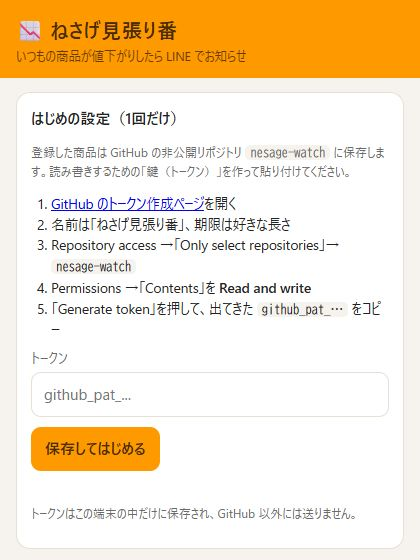
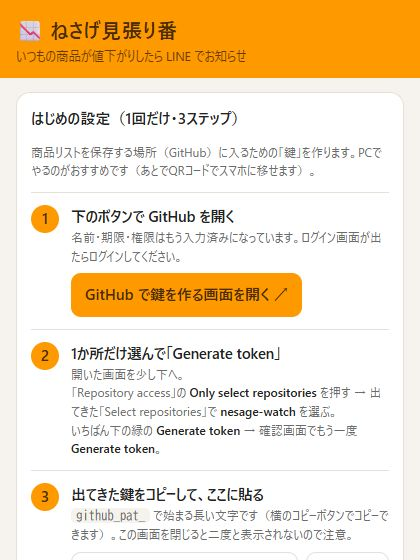
自動公開 / 更新: ねさげ見張り番

diff --git a/apps/amazon-nesage/index.html b/apps/amazon-nesage/index.html
@@ -63,6 +63,11 @@ details summary { cursor: pointer; color: var(--sub); font-size: 13px; }
 ol { padding-left: 20px; margin: 6px 0; font-size: 13.5px; }
 code { font-size: 12.5px; background: var(--bg); padding: 1px 5px; border-radius: 5px; }
 .hidden { display: none !important; }
+.step { display: grid; grid-template-columns: 30px 1fr; gap: 10px; padding: 12px 0; border-top: 1px solid var(--line); }
+.step > div > b { font-size: 14.5px; }
+.step .meta b { font-weight: 700; }
+.num { width: 28px; height: 28px; border-radius: 50%; background: var(--accent); color: var(--accent-ink); display: grid; place-items: center; font-weight: 800; }
+a.btn { display: inline-block; margin-top: 8px; padding: 10px 14px; border-radius: 10px; background: var(--accent); color: var(--accent-ink); font-weight: 700; text-decoration: none; }
 </style>
 </head>
 <body>
@@ -72,20 +77,33 @@ code { font-size: 12.5px; background: var(--bg); padding: 1px 5px; border-radius
 </header>
 <main>
   <section id="setup" class="box hidden">
-    <h2>はじめの設定（1回だけ）</h2>
-    <p class="meta">登録した商品は GitHub の非公開リポジトリ <code>nesage-watch</code> に保存します。読み書きするための「鍵（トークン）」を作って貼り付けてください。</p>
-    <ol>
-      <li><a href="https://github.com/settings/personal-access-tokens/new" target="_blank" rel="noopener">GitHub のトークン作成ページ</a>を開く</li>
-      <li>名前は「ねさげ見張り番」、期限は好きな長さ</li>
-      <li>Repository access →「Only select repositories」→ <code>nesage-watch</code></li>
-      <li>Permissions →「Contents」を <b>Read and write</b></li>
-      <li>「Generate token」を押して、出てきた <code>github_pat_…</code> をコピー</li>
-    </ol>
-    <label for="tok">トークン</label>
-    <input id="tok" type="password" autocomplete="off" placeholder="github_pat_...">
-    <div class="row" style="margin-top:10px"><button id="saveTok">保存してはじめる</button></div>
-    <div id="setupMsg" class="msg"></div>
-    <p class="meta">トークンはこの端末の中だけに保存され、GitHub 以外には送りません。</p>
+    <h2>はじめの設定（1回だけ・3ステップ）</h2>
+    <p class="meta">商品リストを保存する場所（GitHub）に入るための「鍵」を作ります。PCでやるのがおすすめです（あとでQRコードでスマホに移せます）。</p>
+
+    <div class="step"><span class="num">1</span><div>
+      <b>下のボタンで GitHub を開く</b>
+      <div class="meta">名前・期限・権限はもう入力済みになっています。ログイン画面が出たらログインしてください。</div>
+      <a class="btn" href="https://github.com/settings/personal-access-tokens/new?name=%E3%81%AD%E3%81%95%E3%81%92%E8%A6%8B%E5%BC%B5%E3%82%8A%E7%95%AA&amp;description=Amazon%E5%80%A4%E4%B8%8B%E3%81%8C%E3%82%8A%E9%80%9A%E7%9F%A5%E3%81%AE%E5%95%86%E5%93%81%E3%83%AA%E3%82%B9%E3%83%88%E7%94%A8&amp;target_name=kato200000354&amp;expires_in=none&amp;contents=write" target="_blank" rel="noopener">GitHub で鍵を作る画面を開く ↗</a>
+    </div></div>
+
+    <div class="step"><span class="num">2</span><div>
+      <b>1か所だけ選んで「Generate token」</b>
+      <div class="meta">開いた画面を少し下へ。<br>
+        「Repository access」の <b>Only select repositories</b> を押す → 出てきた「Select repositories」で <b>nesage-watch</b> を選ぶ。<br>
+        いちばん下の緑の <b>Generate token</b> → 確認画面でもう一度 <b>Generate token</b>。</div>
+    </div></div>
+
+    <div class="step"><span class="num">3</span><div>
+      <b>出てきた鍵をコピーして、ここに貼る</b>
+      <div class="meta"><code>github_pat_</code> で始まる長い文字です（横のコピーボタンでコピーできます）。この画面を閉じると二度と表示されないので注意。</div>
+      <div class="row" style="margin-top:8px">
+        <input id="tok" class="grow" type="password" autocomplete="off" placeholder="github_pat_...">
+        <button class="ghost" id="pasteTok">貼り付け</button>
+      </div>
+      <div class="row" style="margin-top:10px"><button id="saveTok">保存してはじめる</button></div>
+      <div id="setupMsg" class="msg"></div>
+    </div></div>
+    <p class="meta">鍵はこの端末の中だけに保存され、GitHub 以外には送りません。</p>
   </section>
 
   <div id="app" class="hidden">
@@ -106,14 +124,18 @@ code { font-size: 12.5px; background: var(--bg); padding: 1px 5px; border-radius
     <details class="box">
       <summary>しくみ・設定</summary>
       <p class="meta">家のPCが起動しているあいだ、3時間おきに Amazon の価格を調べます（PCを起動したときにも1回）。前回より安くなっていたら（目標価格を決めた商品はそれ以下になったら）LINE に通知します。登録した商品は次のチェックで価格がわかります。</p>
-      <div class="row"><button class="ghost" id="reload">最新の情報を読み込む</button><button class="ghost" id="logout">トークンを消す</button></div>
+      <div class="row"><button class="ghost" id="reload">最新の情報を読み込む</button><button class="ghost" id="showQr">スマホにも設定する（QR）</button><button class="ghost" id="logout">鍵を消す</button></div>
+      <div id="qrBox" class="hidden" style="margin-top:12px; text-align:center">
+        <div id="qr" style="display:inline-block; background:#fff; padding:10px; border-radius:10px"></div>
+        <p class="meta">スマホのカメラでこのQRを読むと、鍵の設定が済んだ状態で開きます。<br>他の人には見せないでください。</p>
+      </div>
     </details>
   </div>
 </main>
 
 <script>
 /*! © kato200000354. 無断転載・複製・再配布を禁止します。 */
-const REPO="kato200000354/nesage-watch",API=`https://api.github.com/repos/${REPO}/contents/`,TOKEN_KEY="nesage-token",$=t=>document.getElementById(t),store={get(){try{return localStorage.getItem(TOKEN_KEY)||""}catch{return""}},set(t){try{t?localStorage.setItem(TOKEN_KEY,t):localStorage.removeItem(TOKEN_KEY)}catch{}}};let token=store.get(),items=[],itemsSha=null,prices={};const b64dec=t=>(new TextDecoder).decode(Uint8Array.from(atob(t.replace(/\s/g,"")),t=>t.charCodeAt(0))),b64enc=t=>{let e="";for(const a of(new TextEncoder).encode(t))e+=String.fromCharCode(a);return btoa(e)},yen=t=>"¥"+Number(t).toLocaleString("ja-JP"),esc=t=>String(t??"").replace(/[&<>"']/g,t=>({"&":"&amp;","<":"&lt;",">":"&gt;",'"':"&quot;","'":"&#39;"}[t]));async function gh(t,e={}){const a=await fetch(API+t,{cache:"no-store",...e,headers:{Authorization:"Bearer "+token,Accept:"application/vnd.github+json",...e.headers||{}}});if(401===a.status)throw new Error("トークンが正しくないか、期限が切れています");if(403===a.status||404===a.status)throw new Error("リポジトリ nesage-watch を読めません（トークンの「Repository access」と「Contents」を確認）");if(409===a.status){const t=new Error("ほかの更新とぶつかりました");throw t.conflict=!0,t}if(!a.ok)throw new Error("GitHub エラー "+a.status);return a.json()}async function readJson(t){const e=await gh(t+"?ref=main");return{data:JSON.parse(b64dec(e.content)||"null"),sha:e.sha}}async function loadAll(){$("status").textContent="読み込み中…";const[t,e]=await Promise.all([readJson("items.json"),readJson("prices.json")]);items=t.data||[],itemsSha=t.sha,prices=e.data||{},render()}async function mutate(t,e){for(let a=0;a<2;a++){const n=await readJson("items.json"),s=t(n.data||[]);try{const t=await gh("items.json",{method:"PUT",body:JSON.stringify({message:e,sha:n.sha,branch:"main",content:b64enc(JSON.stringify(s,null,1)+"\n")})});return items=s,itemsSha=t.content.sha,void render()}catch(t){if(!t.conflict||a)throw t}}}function parseInput(t){const e=t.match(/https?:\/\/[^\s<>"'）)」]+/);if(!e)return null;const a=e[0].replace(/[。、]+$/,"");if(!/(^|\.)(amazon\.co\.jp|amzn\.asia|amzn\.to|a\.co)$/i.test(new URL(a).hostname))return{url:a,bad:!0};const n=a.match(/\/(?:dp|gp\/product|gp\/aw\/d|exec\/obidos\/ASIN)\/([A-Z0-9]{10})/i);return{url:n?"https://www.amazon.co.jp/dp/"+n[1].toUpperCase():a,asin:n?n[1].toUpperCase():null}}function spark(t){const e=t.filter(t=>t.p>0);if(e.length<2)return"";const a=e.map(t=>t.p),n=Math.min(...a),s=Math.max(...a),r=t=>4+292*t/(e.length-1),o=t=>s===n?18:4+28*(s-t)/(s-n);let c=`M${r(0)},${o(a[0])}`;for(let t=1;t<a.length;t++)c+=`H${r(t)}V${o(a[t])}`;const i=a[a.length-1];return`<svg class="spark" viewBox="0 0 300 36" preserveAspectRatio="none" aria-label="価格の推移">\n    <path d="${c}" fill="none" stroke="var(--accent)" stroke-width="2" vector-effect="non-scaling-stroke"/>\n    <circle cx="${r(a.length-1)}" cy="${o(i)}" r="3" fill="${i<=n?"var(--down)":"var(--accent)"}"/></svg>`}function fmtTime(t){return t?t.slice(5).replace("-","/").replace("T"," "):""}function render(){const t=Object.values(prices).map(t=>t.checked).filter(Boolean).sort(),e=t[t.length-1],a=$("status");if(items.length)if(e){const t=(Date.now()-new Date(e+":00+09:00"))/36e5;a.textContent=`最後のチェック: ${fmtTime(e)}`+(t>12?"　⚠ しばらくチェックできていません（家のPCが止まっているかも）":""),a.className="status"+(t>12?" warn":"")}else a.textContent="まだ一度もチェックしていません（次のチェックで価格がわかります）";else a.textContent="";items.length?$("list").innerHTML=items.map(t=>{const e=prices[t.id]||{},a=e.history||[],n=a.filter(t=>t.p>0),s=n.length>1?n[n.length-2].p:null,r=e.asin?"https://www.amazon.co.jp/dp/"+e.asin:t.url;let o;if(e.price>0){const t=s?e.price-s:0;o=`<div class="price">${yen(e.price)}${t?`<span class="chg ${t<0?"down":"up"}">${t<0?"▼":"▲"}${yen(Math.abs(t))}</span>`:""}</div>`}else o=0===e.price?'<div class="price" style="font-size:16px">在庫切れ</div>':'<div class="meta">次のチェックで価格を調べます</div>';const c=[e.low&&e.price>0&&e.price<=e.low&&n.length>1?'<span class="tag low">最安値</span>':"",t.target?`<span class="tag">🎯 ${yen(t.target)}以下で通知</span>`:""].join("");return`<div class="box item">\n      ${e.image?`<img src="${esc(e.image)}" alt="" loading="lazy" referrerpolicy="no-referrer">`:'<div class="noimg">📦</div>'}\n      <div style="min-width:0">\n        <a class="title" href="${esc(r)}" target="_blank" rel="noopener">${esc(e.title||t.url)}</a>\n        ${o}\n        ${spark(a)}\n        <div class="meta">${c}${e.low?`最安 <b>${yen(e.low)}</b>　`:""}${e.checked?"チェック "+fmtTime(e.checked):""}</div>\n        ${e.error?`<div class="meta err">${esc(e.error)}</div>`:""}\n      </div>\n      <div class="tools">\n        <button class="ghost" data-act="target" data-id="${esc(t.id)}">目標価格</button>\n        <button class="ghost" data-act="del" data-id="${esc(t.id)}">削除</button>\n      </div>\n    </div>`}).join(""):$("list").innerHTML='<div class="box empty">まだ商品がありません。<br>いつも買う商品の URL を上に貼って登録してください。</div>'}async function guard(t,e,a){t.disabled=!0,e.className="msg",e.textContent="保存中…";try{await a(),e.textContent=""}catch(t){e.className="msg err",e.textContent=t.message}finally{t.disabled=!1}}$("add").onclick=()=>{const t=$("addMsg"),e=parseInput($("url").value);if(!e)return t.className="msg err",void(t.textContent="URL が見つかりません");if(e.bad)return t.className="msg err",void(t.textContent="Amazon（amazon.co.jp）の URL を貼ってください");const a=parseInt($("target").value,10)||null;guard($("add"),t,async()=>{let n=!1;if(await mutate(t=>e.asin&&t.some(t=>t.asin===e.asin)?(n=!0,t):[...t,{id:Date.now().toString(36),url:e.url,asin:e.asin,target:a,added:(new Date).toISOString().slice(0,10)}],"商品を追加"),n)throw new Error("その商品はもう登録してあります");$("url").value="",$("target").value="",t.textContent="",setTimeout(()=>{t.className="msg",t.textContent="登録しました。次のチェックで価格がわかります"},0)})},$("list").onclick=t=>{const e=t.target.closest("button[data-act]");if(!e)return;const a=e.dataset.id,n=items.find(t=>t.id===a),s=(prices[a]&&prices[a].title||n.url).slice(0,40),r=$("addMsg");if("del"===e.dataset.act){if(!confirm(`「${s}」を削除しますか？`))return;guard(e,r,()=>mutate(t=>t.filter(t=>t.id!==a),"商品を削除"))}else{const t=prompt("目標価格（円）。この値段以下になったら通知します。\n空にすると「少しでも下がったら通知」に戻ります。",n.target||"");if(null===t)return;const s=parseInt(t.replace(/[^\d]/g,""),10)||null;guard(e,r,()=>mutate(t=>t.map(t=>t.id===a?{...t,target:s}:t),"目標価格を変更"))}},$("saveTok").onclick=async()=>{token=$("tok").value.trim();const t=$("setupMsg");t.className="msg",t.textContent="確認中…";try{await loadAll(),store.set(token),$("setup").classList.add("hidden"),$("app").classList.remove("hidden"),t.textContent=""}catch(e){t.className="msg err",t.textContent=e.message}},$("reload").onclick=()=>loadAll().catch(t=>$("status").textContent=t.message),$("logout").onclick=()=>{confirm("この端末からトークンを消しますか？")&&(store.set(""),location.reload())},token?($("app").classList.remove("hidden"),loadAll().catch(t=>{$("status").className="status warn",$("status").textContent=t.message})):$("setup").classList.remove("hidden"),document.addEventListener("visibilitychange",()=>{!document.hidden&&token&&loadAll().catch(()=>{})});
+const REPO="kato200000354/nesage-watch",API=`https://api.github.com/repos/${REPO}/contents/`,TOKEN_KEY="nesage-token",$=t=>document.getElementById(t),store={get(){try{return localStorage.getItem(TOKEN_KEY)||""}catch{return""}},set(t){try{t?localStorage.setItem(TOKEN_KEY,t):localStorage.removeItem(TOKEN_KEY)}catch{}}};let token=store.get(),items=[],itemsSha=null,prices={};const b64dec=t=>(new TextDecoder).decode(Uint8Array.from(atob(t.replace(/\s/g,"")),t=>t.charCodeAt(0))),b64enc=t=>{let e="";for(const a of(new TextEncoder).encode(t))e+=String.fromCharCode(a);return btoa(e)},yen=t=>"¥"+Number(t).toLocaleString("ja-JP"),esc=t=>String(t??"").replace(/[&<>"']/g,t=>({"&":"&amp;","<":"&lt;",">":"&gt;",'"':"&quot;","'":"&#39;"}[t]));async function gh(t,e={}){const a=await fetch(API+t,{cache:"no-store",...e,headers:{Authorization:"Bearer "+token,Accept:"application/vnd.github+json",...e.headers||{}}});if(401===a.status)throw new Error("トークンが正しくないか、期限が切れています");if(403===a.status||404===a.status)throw new Error("リポジトリ nesage-watch を読めません（トークンの「Repository access」と「Contents」を確認）");if(409===a.status){const t=new Error("ほかの更新とぶつかりました");throw t.conflict=!0,t}if(!a.ok)throw new Error("GitHub エラー "+a.status);return a.json()}async function readJson(t){const e=await gh(t+"?ref=main");return{data:JSON.parse(b64dec(e.content)||"null"),sha:e.sha}}async function loadAll(){$("status").textContent="読み込み中…";const[t,e]=await Promise.all([readJson("items.json"),readJson("prices.json")]);items=t.data||[],itemsSha=t.sha,prices=e.data||{},render()}async function mutate(t,e){for(let a=0;a<2;a++){const n=await readJson("items.json"),s=t(n.data||[]);try{const t=await gh("items.json",{method:"PUT",body:JSON.stringify({message:e,sha:n.sha,branch:"main",content:b64enc(JSON.stringify(s,null,1)+"\n")})});return items=s,itemsSha=t.content.sha,void render()}catch(t){if(!t.conflict||a)throw t}}}function parseInput(t){const e=t.match(/https?:\/\/[^\s<>"'）)」]+/);if(!e)return null;const a=e[0].replace(/[。、]+$/,"");if(!/(^|\.)(amazon\.co\.jp|amzn\.asia|amzn\.to|a\.co)$/i.test(new URL(a).hostname))return{url:a,bad:!0};const n=a.match(/\/(?:dp|gp\/product|gp\/aw\/d|exec\/obidos\/ASIN)\/([A-Z0-9]{10})/i);return{url:n?"https://www.amazon.co.jp/dp/"+n[1].toUpperCase():a,asin:n?n[1].toUpperCase():null}}function spark(t){const e=t.filter(t=>t.p>0);if(e.length<2)return"";const a=e.map(t=>t.p),n=Math.min(...a),s=Math.max(...a),o=t=>4+292*t/(e.length-1),r=t=>s===n?18:4+28*(s-t)/(s-n);let c=`M${o(0)},${r(a[0])}`;for(let t=1;t<a.length;t++)c+=`H${o(t)}V${r(a[t])}`;const i=a[a.length-1];return`<svg class="spark" viewBox="0 0 300 36" preserveAspectRatio="none" aria-label="価格の推移">\n    <path d="${c}" fill="none" stroke="var(--accent)" stroke-width="2" vector-effect="non-scaling-stroke"/>\n    <circle cx="${o(a.length-1)}" cy="${r(i)}" r="3" fill="${i<=n?"var(--down)":"var(--accent)"}"/></svg>`}function fmtTime(t){return t?t.slice(5).replace("-","/").replace("T"," "):""}function render(){const t=Object.values(prices).map(t=>t.checked).filter(Boolean).sort(),e=t[t.length-1],a=$("status");if(items.length)if(e){const t=(Date.now()-new Date(e+":00+09:00"))/36e5;a.textContent=`最後のチェック: ${fmtTime(e)}`+(t>12?"　⚠ しばらくチェックできていません（家のPCが止まっているかも）":""),a.className="status"+(t>12?" warn":"")}else a.textContent="まだ一度もチェックしていません（次のチェックで価格がわかります）";else a.textContent="";items.length?$("list").innerHTML=items.map(t=>{const e=prices[t.id]||{},a=e.history||[],n=a.filter(t=>t.p>0),s=n.length>1?n[n.length-2].p:null,o=e.asin?"https://www.amazon.co.jp/dp/"+e.asin:t.url;let r;if(e.price>0){const t=s?e.price-s:0;r=`<div class="price">${yen(e.price)}${t?`<span class="chg ${t<0?"down":"up"}">${t<0?"▼":"▲"}${yen(Math.abs(t))}</span>`:""}</div>`}else r=0===e.price?'<div class="price" style="font-size:16px">在庫切れ</div>':'<div class="meta">次のチェックで価格を調べます</div>';const c=[e.low&&e.price>0&&e.price<=e.low&&n.length>1?'<span class="tag low">最安値</span>':"",t.target?`<span class="tag">🎯 ${yen(t.target)}以下で通知</span>`:""].join("");return`<div class="box item">\n      ${e.image?`<img src="${esc(e.image)}" alt="" loading="lazy" referrerpolicy="no-referrer">`:'<div class="noimg">📦</div>'}\n      <div style="min-width:0">\n        <a class="title" href="${esc(o)}" target="_blank" rel="noopener">${esc(e.title||t.url)}</a>\n        ${r}\n        ${spark(a)}\n        <div class="meta">${c}${e.low?`最安 <b>${yen(e.low)}</b>　`:""}${e.checked?"チェック "+fmtTime(e.checked):""}</div>\n        ${e.error?`<div class="meta err">${esc(e.error)}</div>`:""}\n      </div>\n      <div class="tools">\n        <button class="ghost" data-act="target" data-id="${esc(t.id)}">目標価格</button>\n        <button class="ghost" data-act="del" data-id="${esc(t.id)}">削除</button>\n      </div>\n    </div>`}).join(""):$("list").innerHTML='<div class="box empty">まだ商品がありません。<br>いつも買う商品の URL を上に貼って登録してください。</div>'}async function guard(t,e,a){t.disabled=!0,e.className="msg",e.textContent="保存中…";try{await a(),e.textContent=""}catch(t){e.className="msg err",e.textContent=t.message}finally{t.disabled=!1}}$("add").onclick=()=>{const t=$("addMsg"),e=parseInput($("url").value);if(!e)return t.className="msg err",void(t.textContent="URL が見つかりません");if(e.bad)return t.className="msg err",void(t.textContent="Amazon（amazon.co.jp）の URL を貼ってください");const a=parseInt($("target").value,10)||null;guard($("add"),t,async()=>{let n=!1;if(await mutate(t=>e.asin&&t.some(t=>t.asin===e.asin)?(n=!0,t):[...t,{id:Date.now().toString(36),url:e.url,asin:e.asin,target:a,added:(new Date).toISOString().slice(0,10)}],"商品を追加"),n)throw new Error("その商品はもう登録してあります");$("url").value="",$("target").value="",t.textContent="",setTimeout(()=>{t.className="msg",t.textContent="登録しました。次のチェックで価格がわかります"},0)})},$("list").onclick=t=>{const e=t.target.closest("button[data-act]");if(!e)return;const a=e.dataset.id,n=items.find(t=>t.id===a),s=(prices[a]&&prices[a].title||n.url).slice(0,40),o=$("addMsg");if("del"===e.dataset.act){if(!confirm(`「${s}」を削除しますか？`))return;guard(e,o,()=>mutate(t=>t.filter(t=>t.id!==a),"商品を削除"))}else{const t=prompt("目標価格（円）。この値段以下になったら通知します。\n空にすると「少しでも下がったら通知」に戻ります。",n.target||"");if(null===t)return;const s=parseInt(t.replace(/[^\d]/g,""),10)||null;guard(e,o,()=>mutate(t=>t.map(t=>t.id===a?{...t,target:s}:t),"目標価格を変更"))}},$("saveTok").onclick=async()=>{token=$("tok").value.trim();const t=$("setupMsg");t.className="msg",t.textContent="確認中…";try{await loadAll(),store.set(token),$("setup").classList.add("hidden"),$("app").classList.remove("hidden"),t.textContent=""}catch(e){t.className="msg err",t.textContent=e.message}},$("reload").onclick=()=>loadAll().catch(t=>$("status").textContent=t.message),$("logout").onclick=()=>{confirm("この端末からトークンを消しますか？")&&(store.set(""),location.reload())},$("pasteTok").onclick=async()=>{try{$("tok").value=(await navigator.clipboard.readText()).trim()}catch{$("tok").focus(),$("setupMsg").className="msg",$("setupMsg").textContent="入力欄を長押しして「貼り付け」してください"}};const PAGE_URL="https://kato200000354.github.io/apps/amazon-nesage/";$("showQr").onclick=()=>{const t=$("qrBox");if(!t.classList.contains("hidden"))return t.classList.add("hidden"),void($("qr").innerHTML="");const e=()=>{$("qr").innerHTML="",new QRCode($("qr"),{text:PAGE_URL+"#t="+token,width:220,height:220,correctLevel:QRCode.CorrectLevel.L}),t.classList.remove("hidden")};if(window.QRCode)return e();const a=document.createElement("script");a.src="https://cdnjs.cloudflare.com/ajax/libs/qrcodejs/1.0.0/qrcode.min.js",a.onload=e,a.onerror=()=>alert("QRコードを作れませんでした（通信を確認してください）"),document.head.appendChild(a)};const fromHash=location.hash.match(/^#t=([\w-]+)$/);fromHash&&(token=fromHash[1],store.set(token),history.replaceState(null,"",location.pathname)),token?($("app").classList.remove("hidden"),loadAll().catch(t=>{$("status").className="status warn",$("status").textContent=t.message})):$("setup").classList.remove("hidden"),document.addEventListener("visibilitychange",()=>{!document.hidden&&token&&loadAll().catch(()=>{})});
 </script>
 <script src="../../playtime.js" defer></script>
 </body>
